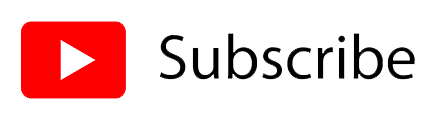
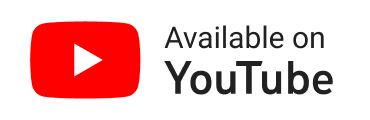
Update Tech Tales podcast links

Changed region(s): [[0.0297, 0.175, 0.9514, 0.825], [0.2081, 0.175, 0.2378, 0.2]]

diff --git a/podcast/index.html b/podcast/index.html
@@ -50,16 +50,17 @@
 		<h1>Tech Tales 🎧</h1>
 		<p>Tech Tales is a podcast exploring the technology world’s epic failures, forgotten successes, and everything in between. The show is created and hosted by me, with a revolving cast of entertaining and knowledgeable guests.</p>
 		<p class="install-button-container">
-			<a href="https://pca.st/bphfxx5c" target="_blank"><img src="/img/pocket-casts-button.png" alt="Play on Pocket Casts"></a>
 			<a href="https://open.spotify.com/show/5gFB6RWAeCG3HA2ezn4dtQ" target="_blank"><img src="/img/spotify-button.png" alt="Play on Spotify"></a>
-			<a href="https://music.amazon.com/podcasts/f250358a-af1a-477a-a0d5-cec00e359cb6/tech-tales" target="_blank"><img src="/img/amazon-music-button.png" alt="Play on Amazon Music"></a>
-			<a href="https://www.youtube.com/channel/UCoJhtqauQgAykvSLQSyu7UQ?sub_confirmation=1" target="_blank"><img src="/img/youtube-button.png" alt="Subscribe on YouTube"></a>
+			<a href="https://www.youtube.com/channel/UCoJhtqauQgAykvSLQSyu7UQ?sub_confirmation=1" target="_blank"><img src="/img/youtube-button.png" alt="Available on YouTube"></a>
 			<a href="https://podcasts.apple.com/us/podcast/tech-tales/id1572321390" target="_blank"><img src="/img/apple-podcasts-button.png" alt="Play on Apple Podcasts"></a>
-			<a href="https://podcasts.google.com/feed/aHR0cHM6Ly9mZWVkcy5zb3VuZGNsb3VkLmNvbS91c2Vycy9zb3VuZGNsb3VkOnVzZXJzOjk3MTUzMzE1OS9zb3VuZHMucnNz" target="_blank"><img src="/img/google-podcasts-button.png" alt="Play on Google Podcasts"></a>
+			<a href="https://music.youtube.com/playlist?list=PLePvabLJGxqZKT6HG4AOD9AT8g8GD8QwY&si=X69cUHfUqg45rrRi" target="_blank"><img src="/img/youtube-music-button.png" alt="Listen on YouTube Music"></a>
+			<a href="https://pca.st/bphfxx5c" target="_blank"><img src="/img/pocket-casts-button.png" alt="Play on Pocket Casts"></a>
+			<a href="https://music.amazon.com/podcasts/f250358a-af1a-477a-a0d5-cec00e359cb6/tech-tales" target="_blank"><img src="/img/amazon-music-button.png" alt="Play on Amazon Music"></a>
 			<a href="https://feeds.soundcloud.com/users/soundcloud:users:971533159/sounds.rss" target="_blank"><img src="/img/rss-button.png" alt="RSS feed"></a>
 		</p>
 		<p>Tech Tales has covered the history of NASA’s Voyager space probes, the exploding Samsung Galaxy Note 7 smartphone, Microsoft and IBM’s failed successor to Windows, Intel’s Itanium CPUs, early electric cars, and much more.</p>
-		<p>As of 2023, there are over 40 episodes, all without ads and available on any podcast player.</p>
+		<p>As of 2023, there are over 50 episodes available for free. There's also an <a href="https://mas.to/@techtales" target="_blank">offical Mastodon/Fediverse account.</a></p>
+		<br>
 	</div>
 
 	<script src="/js/main.js"></script>

diff --git a/404.html b/404.html
@@ -46,7 +46,7 @@
 
 	<div class="content">
 
-		<h1>Page not found 🕵</h1>
+		<h1>Page not found</h1>
 		<p>The page isn't available. If you're looking for a blog post, it moved to <a href="https://blog.corbin.io">blog.corbin.io</a>.</p>
 
 	</div>
